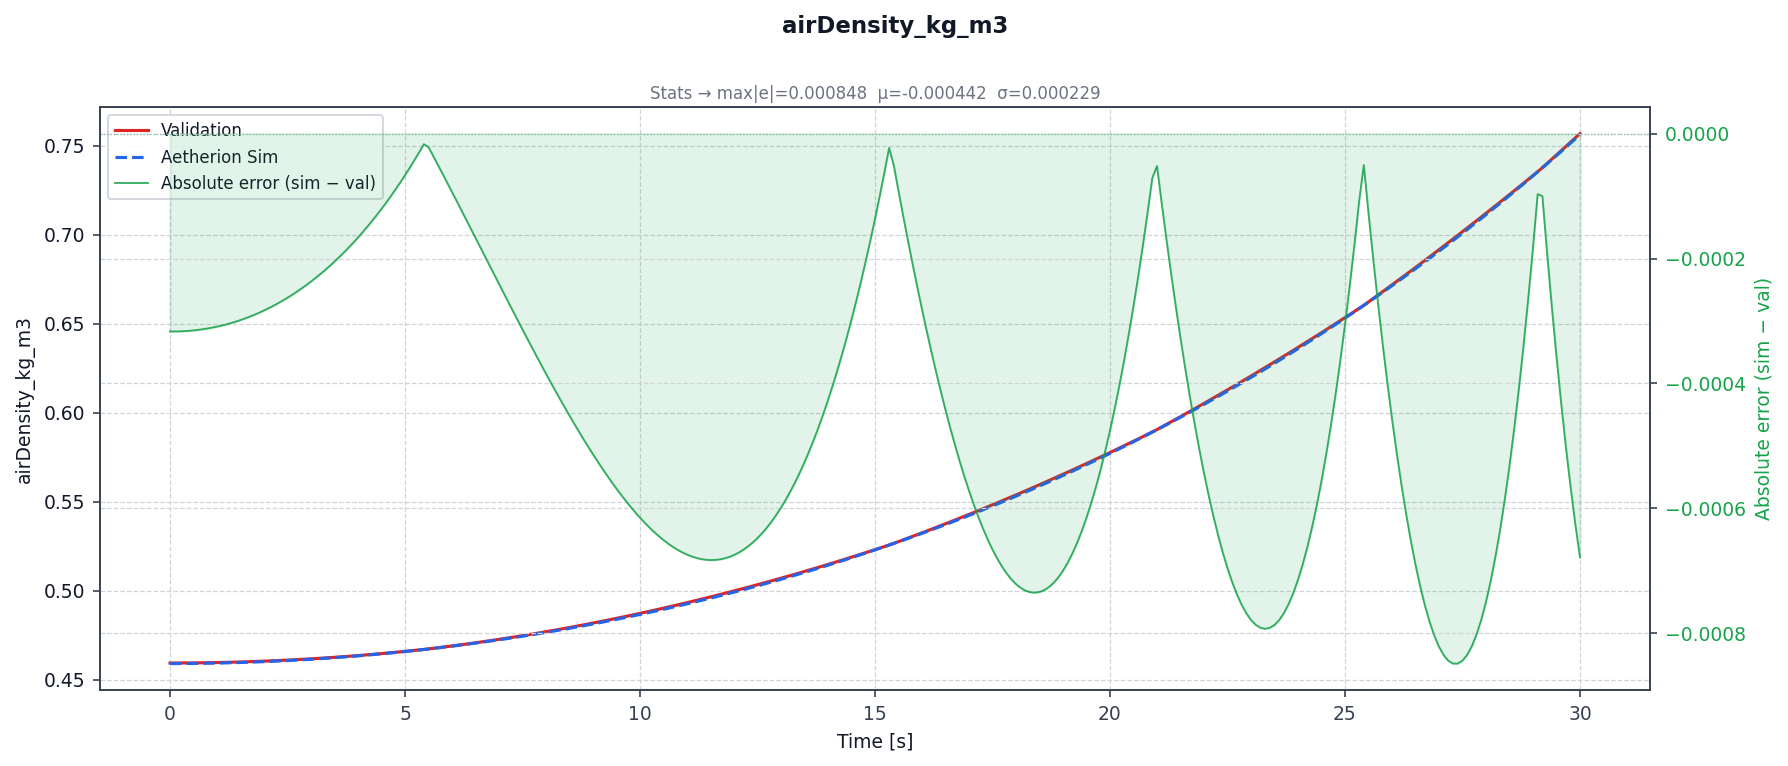
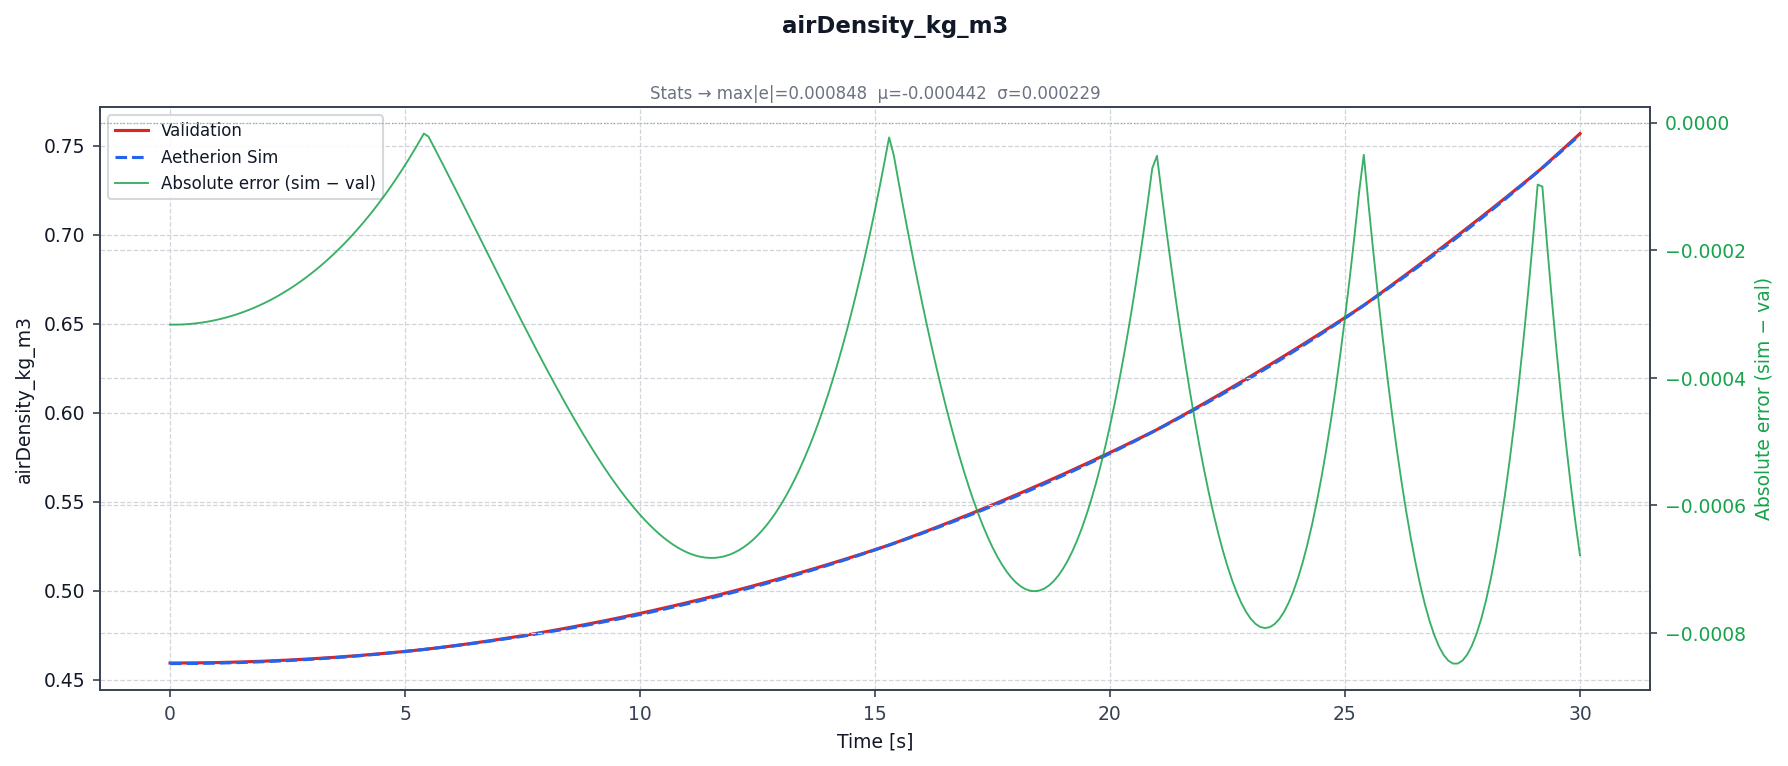
style(scripts): remove fill_between shading under error curve in comparison plots
The green fill under the error curve was visually confusing. Removed both
fill_between calls (per-column plot and overview dashboard) so only the
error line is shown. Regenerated and updated all Atmos-01 doc figures.

diff --git a/scripts/compare_sim_validation.py b/scripts/compare_sim_validation.py
@@ -172,7 +172,6 @@ def plot_column(time: np.ndarray,
     l3, = ax2.plot(time, err, color=ERR_COLOR, lw=0.9, alpha=0.85,
                    label=err_label, zorder=2)
     ax2.axhline(0, color=ERR_COLOR, lw=0.6, ls=":", alpha=0.5)
-    ax2.fill_between(time, err, 0, color=ERR_COLOR, alpha=FILL_ALPHA)
     ax2.set_ylabel(err_label, color=ERR_COLOR)
     ax2.tick_params(axis="y", labelcolor=ERR_COLOR)
 
@@ -229,7 +228,6 @@ def plot_summary(time: np.ndarray,
         ax1.plot(time, v, color=VAL_COLOR, lw=1.2, label="Val")
         ax1.plot(time, s, color=SIM_COLOR, lw=1.2, ls="--", label="Sim")
         ax2.plot(time, e, color=ERR_COLOR, lw=0.8, alpha=0.7)
-        ax2.fill_between(time, e, 0, color=ERR_COLOR, alpha=FILL_ALPHA)
         ax2.tick_params(axis="y", labelsize=6, labelcolor=ERR_COLOR)
         ax2.yaxis.set_major_formatter(ticker.FormatStrFormatter("%.2g"))
 
